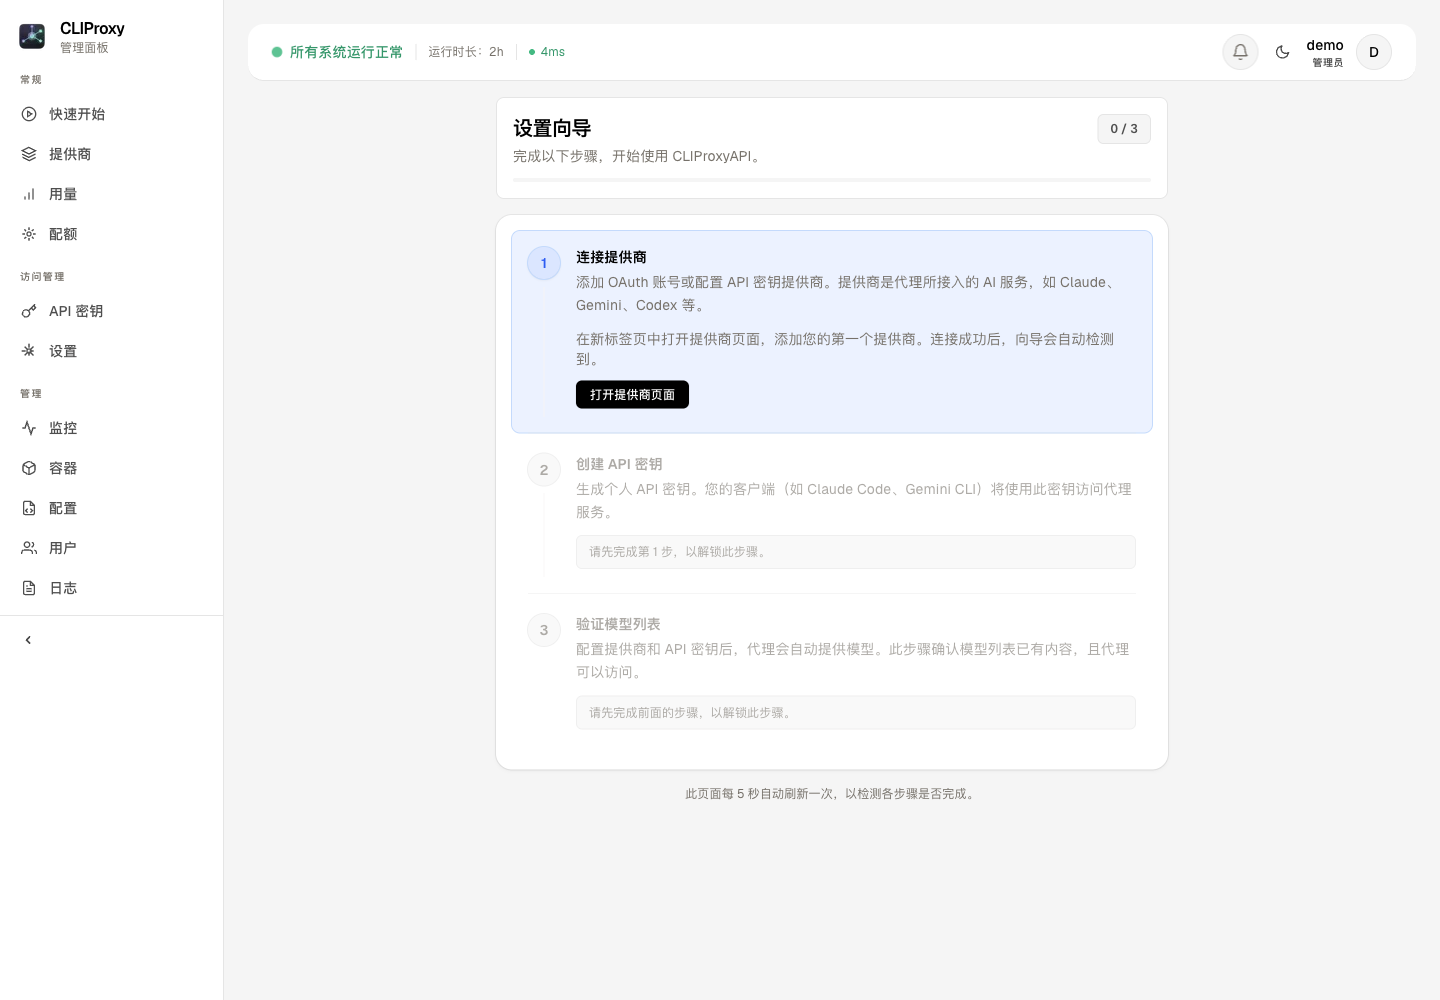
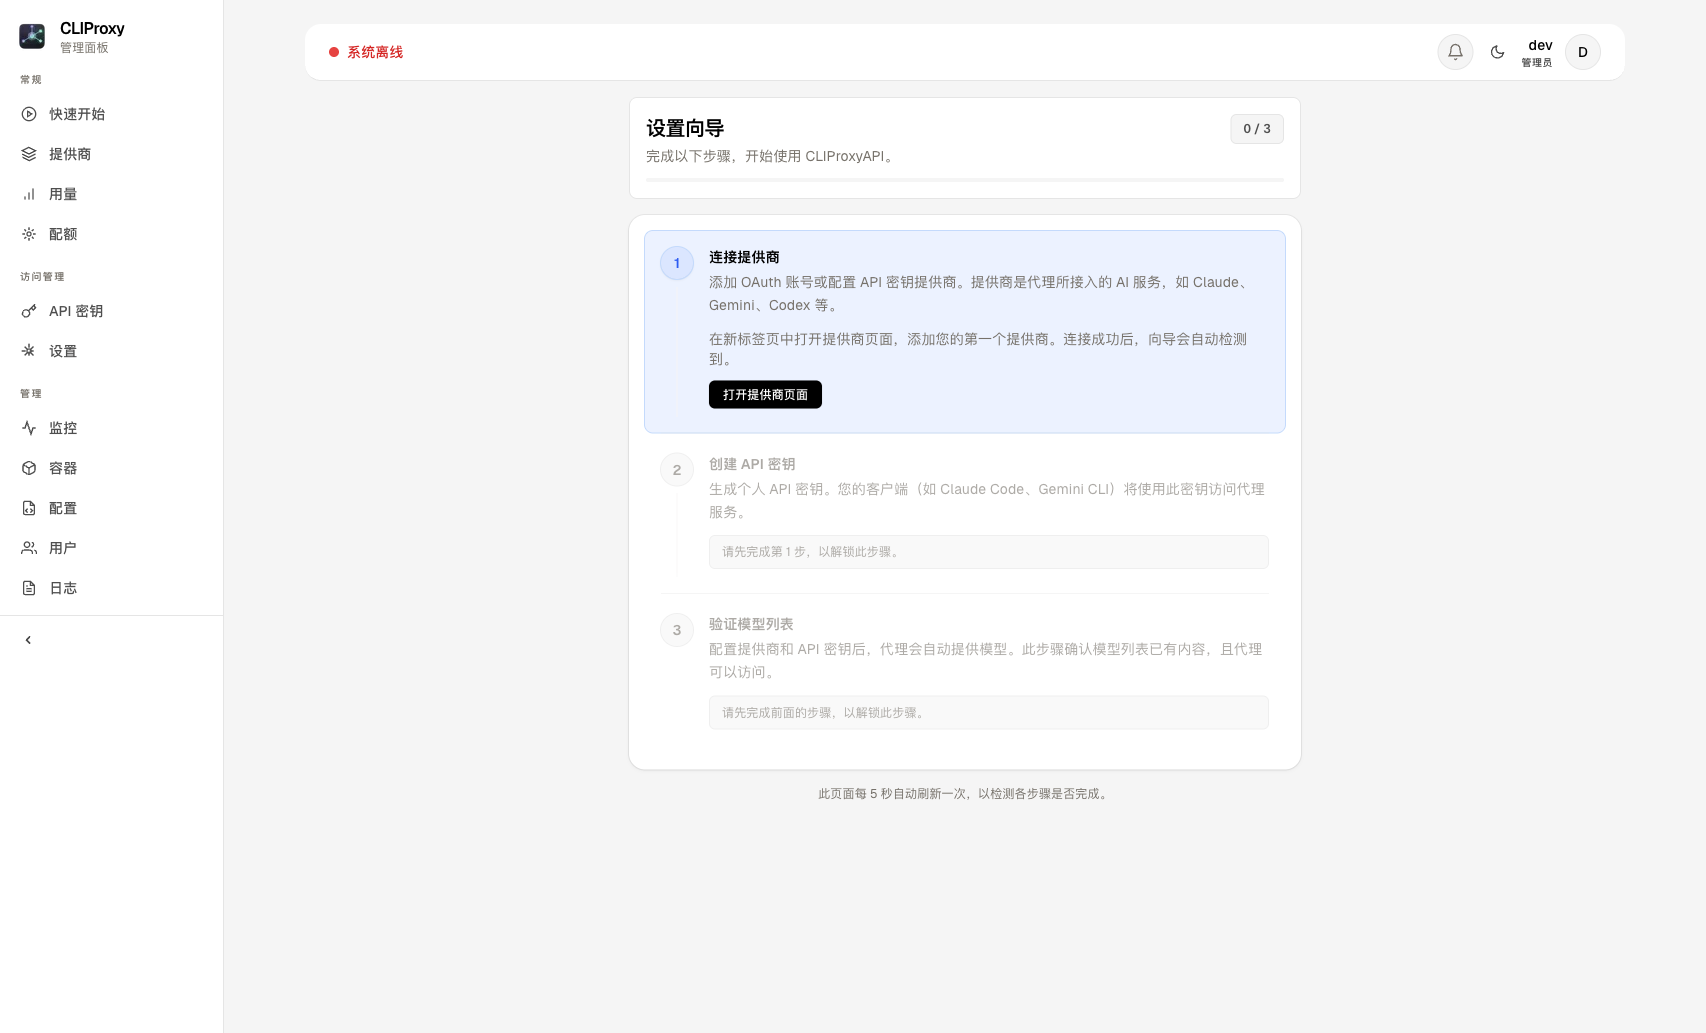
docs: align Chinese screenshot state with English references

diff --git a/docs/screenshots/zh-CN/README.md b/docs/screenshots/zh-CN/README.md
@@ -2,11 +2,11 @@
 
 Captured on 2026-10-18 from the actual Dashboard application, built locally at commit `ad540c5815732e7ceb3884f0a50690362de1d7ac` (the merged Simplified Chinese refresh in PR #337).
 
-- Locale: `zh-CN`; theme: light; viewport: 1440 × 1000 CSS pixels, scale 1.
+- Locale: `zh-CN`; theme: light; viewport: 1706 × 1033 CSS pixels, scale 1. Full-page captures retain each page's natural height.
 - Routes: `/dashboard/setup`, `/dashboard/providers`, `/dashboard/quota`, `/dashboard/settings`.
-- The application used a local Next.js production build with `SKIP_AUTH=1`. No application components or translations were changed for the screenshots.
-- A local read-only fixture proxy supplied API responses. The `demo` user, `example.com` accounts, masked key placeholders, quotas, update versions and service status are illustrative data, not live credentials or production measurements. No real provider or production server was contacted.
-- The setup screenshot shows the initial, unconfigured wizard; the other screenshots illustrate a configured demo environment.
+- The application used a local Next.js development server with `SKIP_AUTH=1`. No application components or translations were changed for the screenshots.
+- A local read-only fixture proxy supplies the same offline, unconfigured scenario shown in the English reference images: the `dev` administrator, offline proxy status, no provider keys/OAuth accounts/custom providers/quota data, and a setup wizard at 0/3. The settings page shows `development`, dashboard version `dev`, an unknown upstream version and failed update checks. No real provider or production server was contacted.
+- The English reference images show an older UI revision. These Chinese captures retain the current application's actual fields, provider list and layout rather than altering them to reproduce old pixels; the offline/unconfigured scenario is aligned.
 - Browser translation-extension controls were excluded from the capture. Application text was not translated by a browser extension or edited into the images.
 - Product names and technical identifiers are preserved. Some hardcoded or upstream-supplied text remains English because it bypasses the locale catalog.
 

diff --git a/README.md b/README.md
@@ -139,7 +139,7 @@ Each variant has its own config file (`oh-my-openagent.json` / `oh-my-opencode-s
 
 ## Screenshots
 
-The [Simplified Chinese README](README.zh-CN.md#截图) includes localized UI screenshots captured from the application running locally with synthetic accounts, key placeholders, quotas, and service status. See the [capture notes](docs/screenshots/zh-CN/README.md) for provenance and localization limitations.
+The [Simplified Chinese README](README.zh-CN.md#截图) includes localized UI screenshots captured from the application running locally in the same offline, unconfigured scenario as the English screenshots, without real accounts, keys, or usage data. See the [capture notes](docs/screenshots/zh-CN/README.md) for provenance and localization limitations.
 
 <p align="center">
   <img src="docs/screenshots/setup-wizard.png" alt="Setup Wizard" width="700">

diff --git a/README.zh-CN.md b/README.zh-CN.md
@@ -139,7 +139,7 @@ bunx oh-my-opencode-slim@latest install --no-tui     # Slim 版
 
 ## 截图
 
-以下为启用简体中文语言包后，本地运行的实际界面截图。账号、密钥占位符、配额和服务状态均为演示数据；品牌、技术标识及尚未接入语言包的内容可能保留英文。[截图来源与说明](docs/screenshots/zh-CN/README.md)。
+以下为启用简体中文语言包后，本地运行的实际界面截图，采用与英文原图一致的离线、未配置演示场景，不包含真实账号、密钥或用量数据。品牌、技术标识及尚未接入语言包的内容可能保留英文。[截图来源与说明](docs/screenshots/zh-CN/README.md)。
 
 <p align="center">
   <img src="docs/screenshots/zh-CN/setup-wizard.png" alt="简体中文设置向导" width="700">
